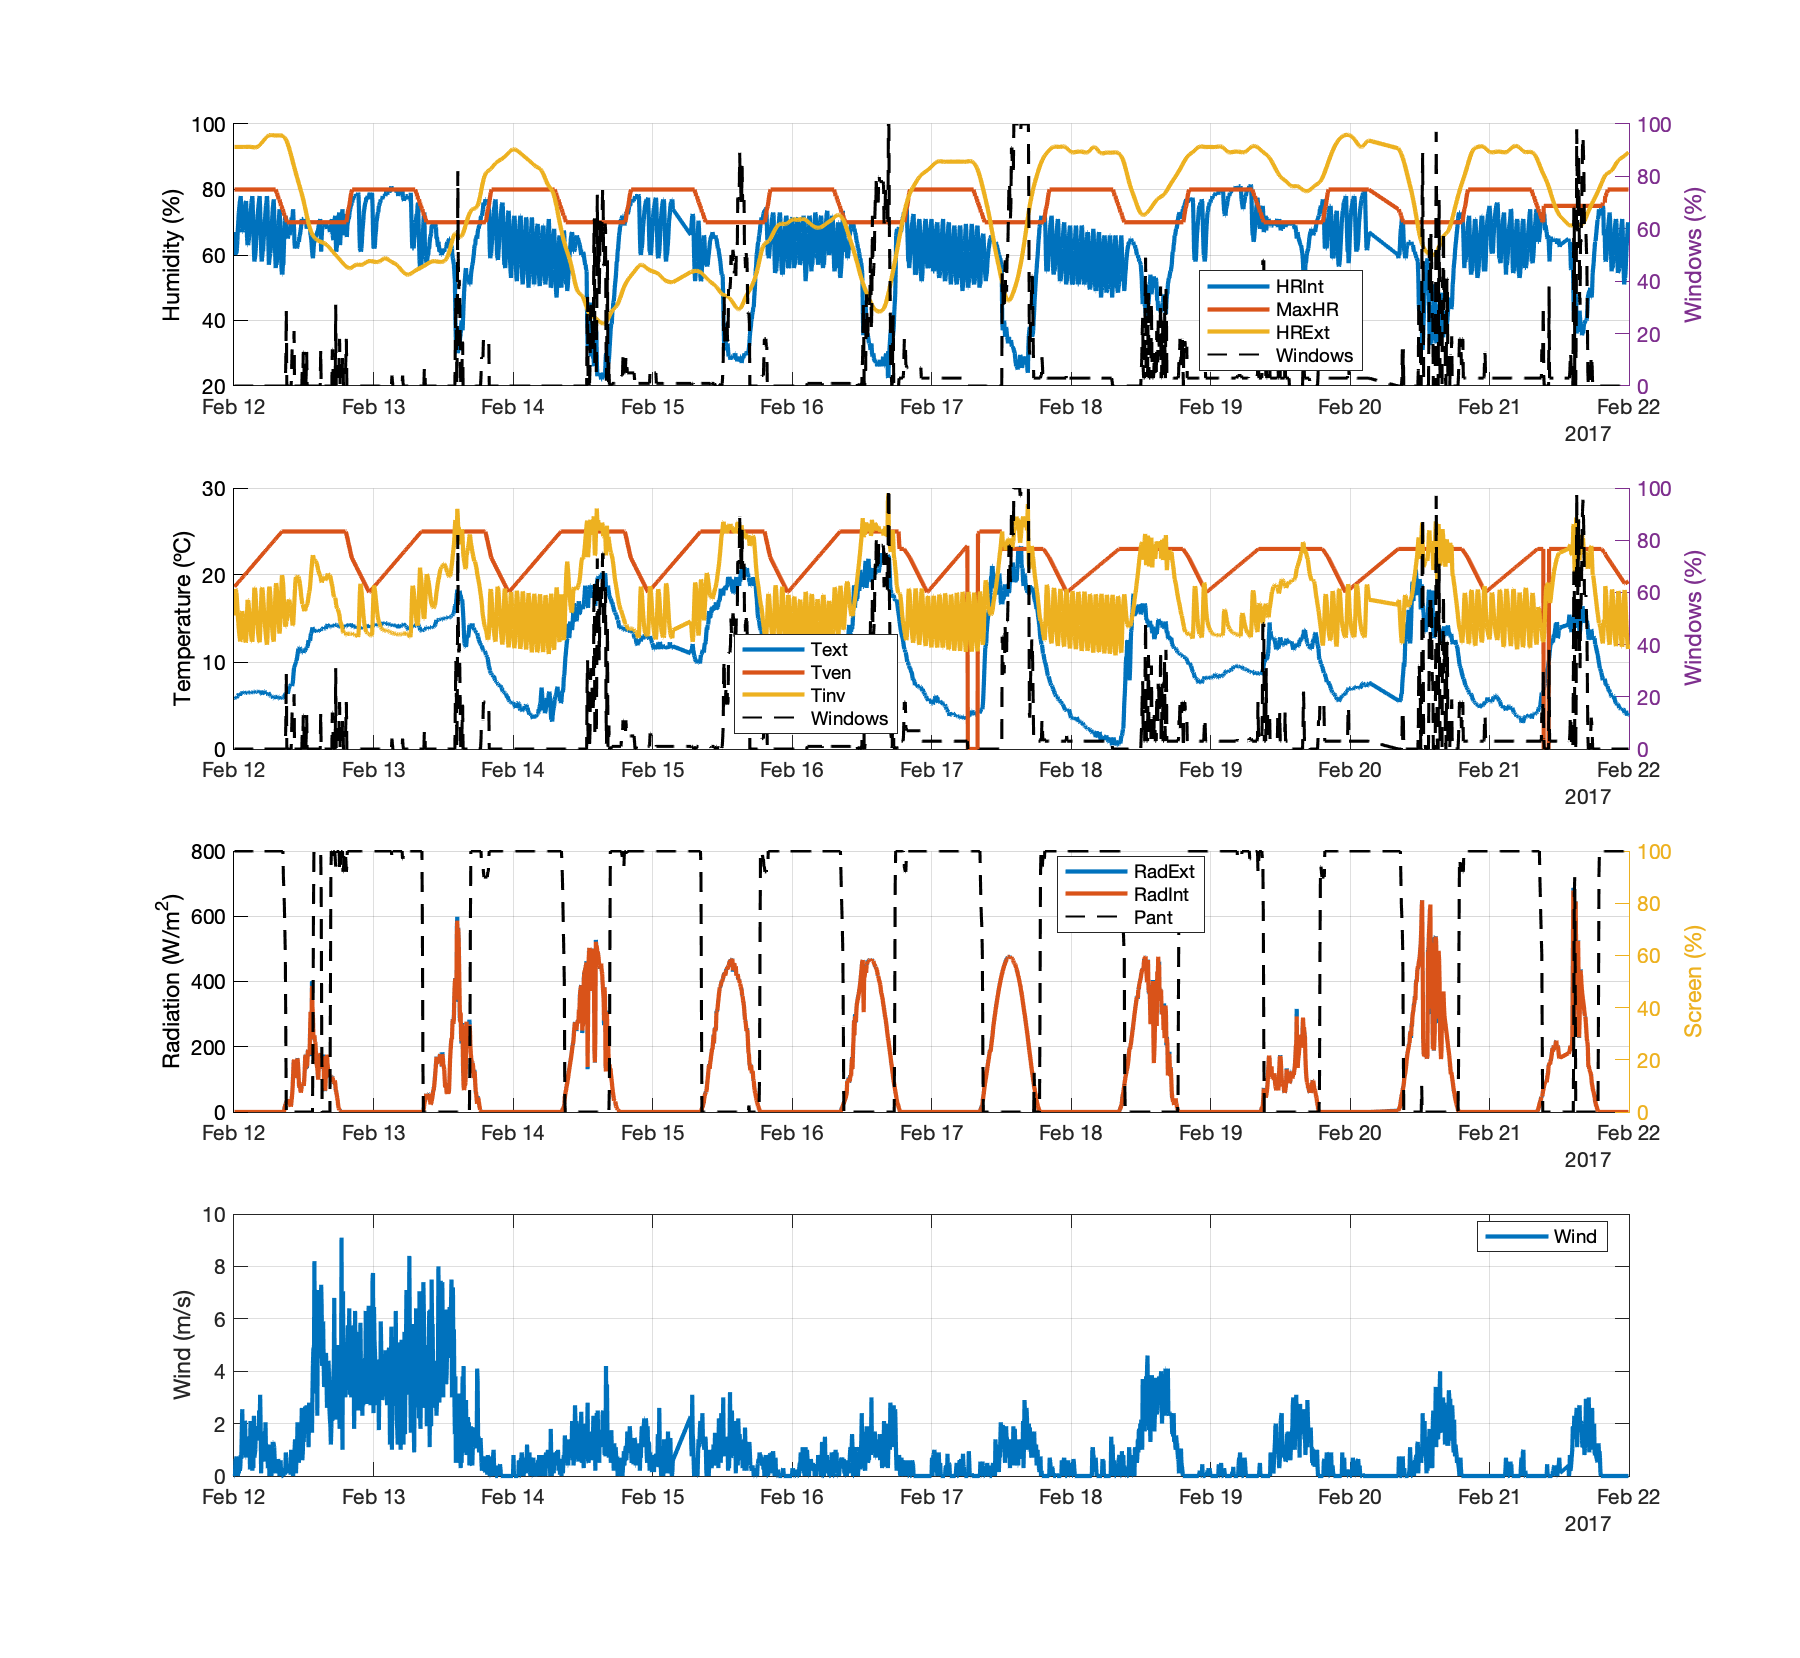
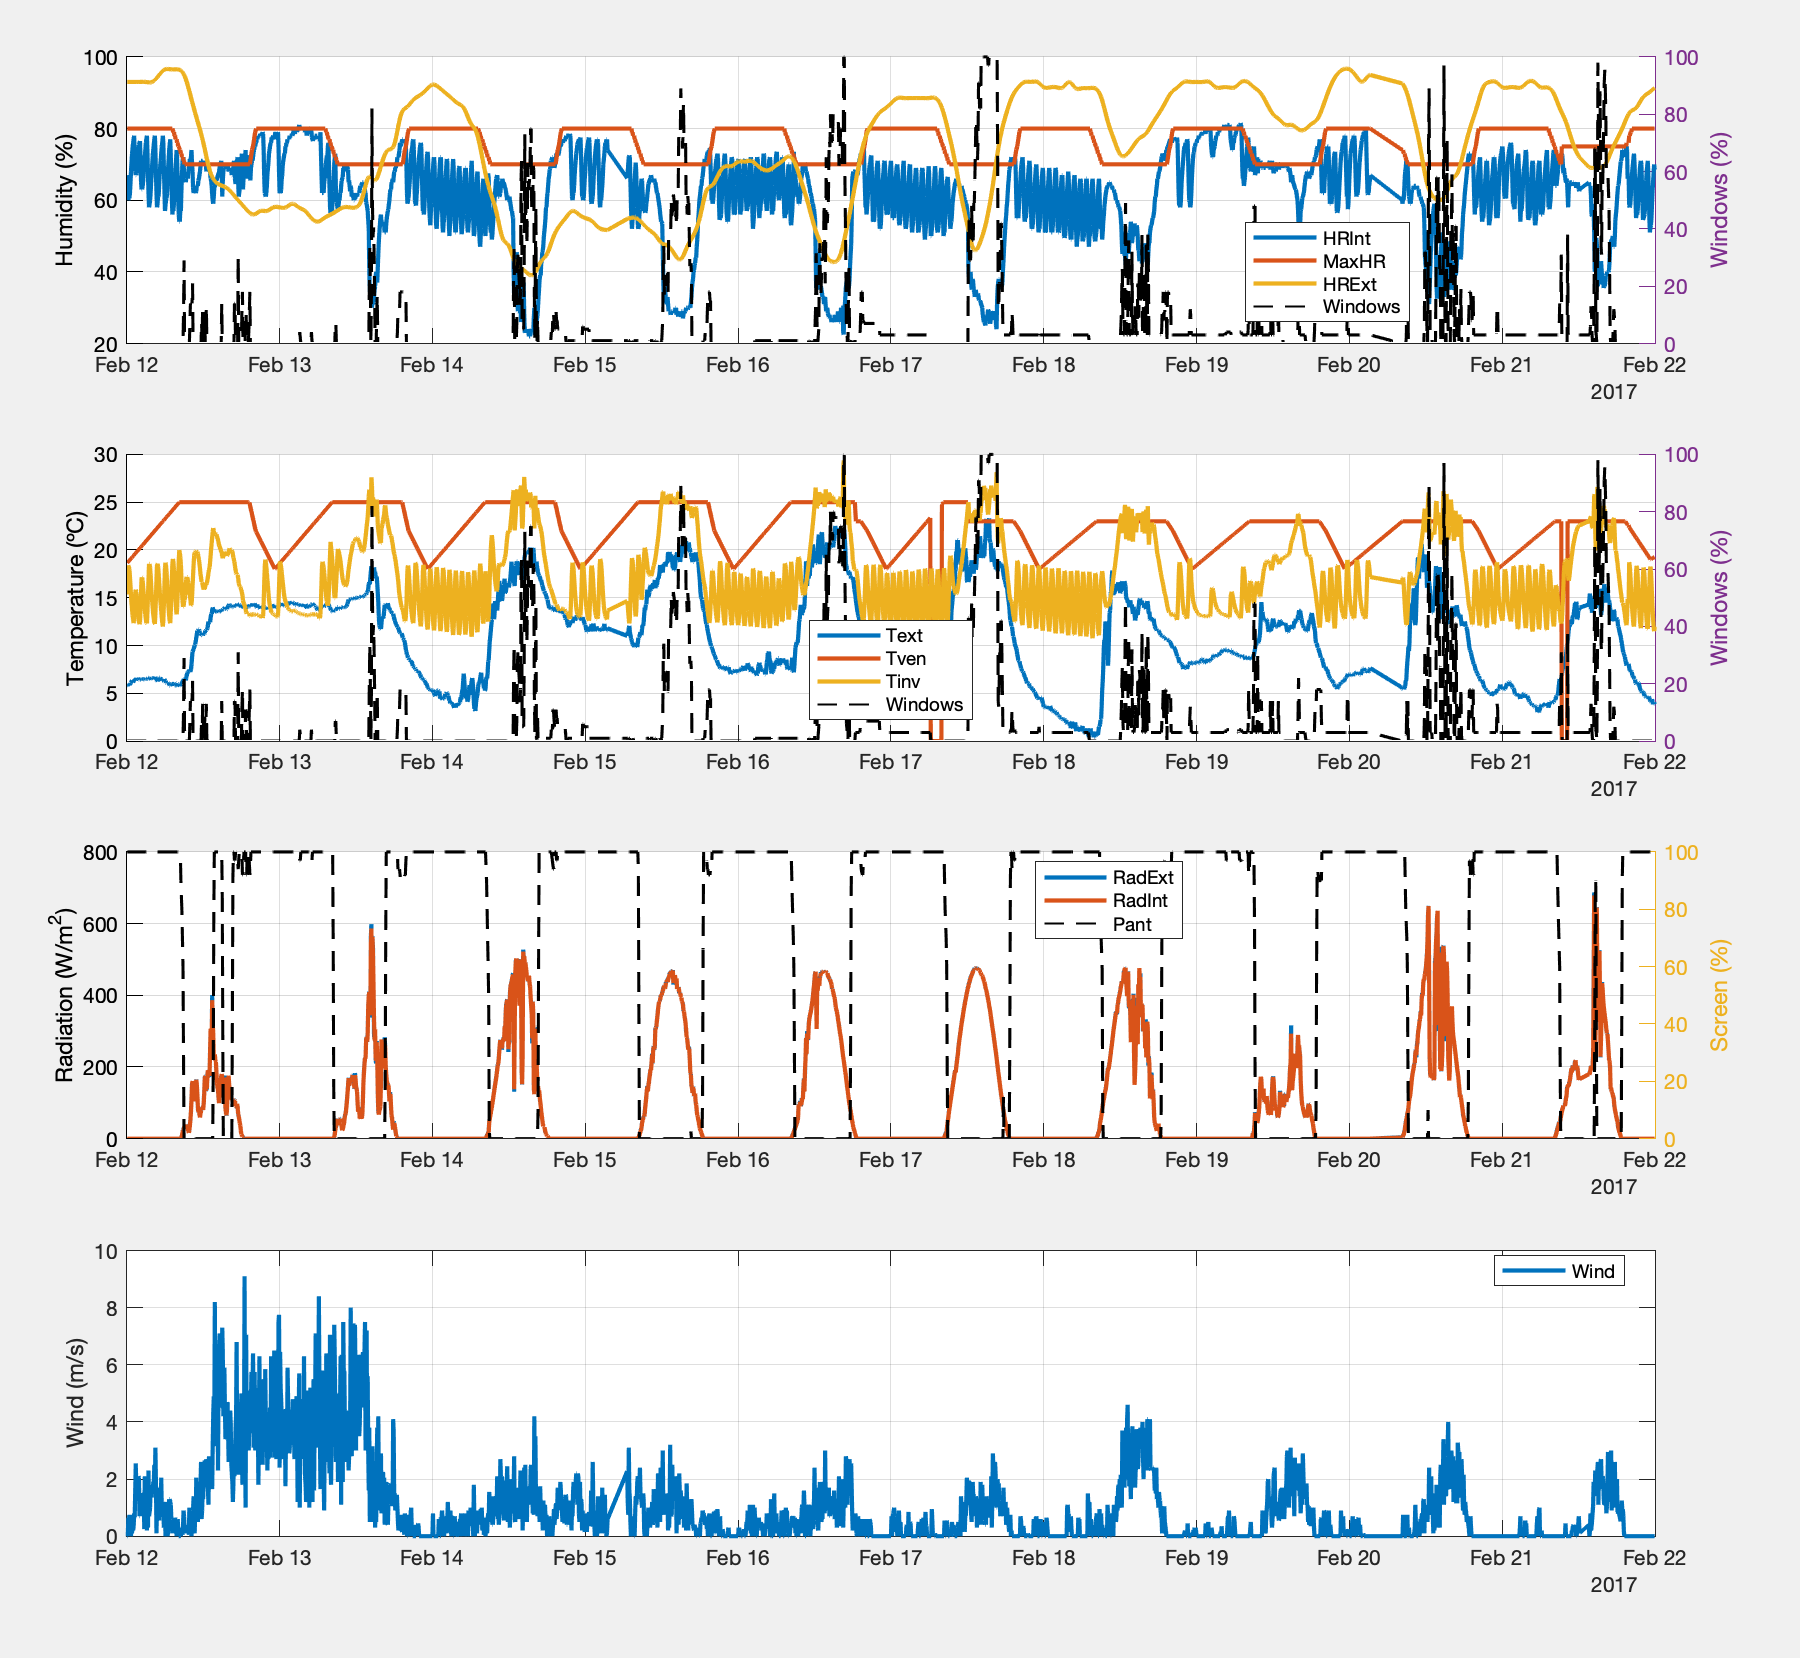
resize png again

diff --git a/src/D25/P413_clima/fun_P413.m b/src/D25/P413_clima/fun_P413.m
@@ -11,13 +11,14 @@ end
 ids = arrayfun(@(i)TableSeries(ds_cell{i}),1:26);
 %%
 close all
-fig = figure('unit','norm','pos',[0 0 0.6 1])
+fig = figure('unit','norm','pos',[0 0 0.6 1]);
+uip = uipanel('Parent',fig,'unit','norm','pos',[-0.075 -0.05 1.1 1+2*0.05])
 jds = subselect_date(ids(idx),DateTimeInterval);
 
 t = jds.DateTime;
 sty = {'LineWidth',2};
 
-subplot(4,1,1)
+subplot(4,1,1,'Parent',uip)
 hold on
 grid on
 plot(t,jds.DataSet.HRInt,sty{:})
@@ -30,7 +31,7 @@ ylabel('Windows (%)')
 
 legend('HRInt','MaxHR','HRExt','Windows','Location','best')
 %
-subplot(4,1,2)
+subplot(4,1,2,'Parent',uip)
 hold on
 grid on
 
@@ -46,7 +47,7 @@ ylabel('Windows (%)')
 
 legend('Text','Tven','Tinv','Windows','Location','best')
 
-subplot(4,1,3)
+subplot(4,1,3,'Parent',uip)
 hold on
 grid on
 
@@ -57,11 +58,11 @@ ylabel('Radiation (W/m^2)')
 yyaxis right
 ylabel('Screen (%)')
 
-    plot(t,jds.DataSet.EstadoPant1,sty{:},'LineStyle','--','LineWidth',1,'color','k')
+plot(t,jds.DataSet.EstadoPant1,sty{:},'LineStyle','--','LineWidth',1,'color','k')
 legend('RadExt','RadInt','Pant','Location','best')
 
 %
-subplot(4,1,4)
+subplot(4,1,4,'Parent',uip)
 plot(t,jds.DataSet.Vviento,sty{:})
 legend('Wind','Location','best')
 ylabel('Wind (m/s)')
